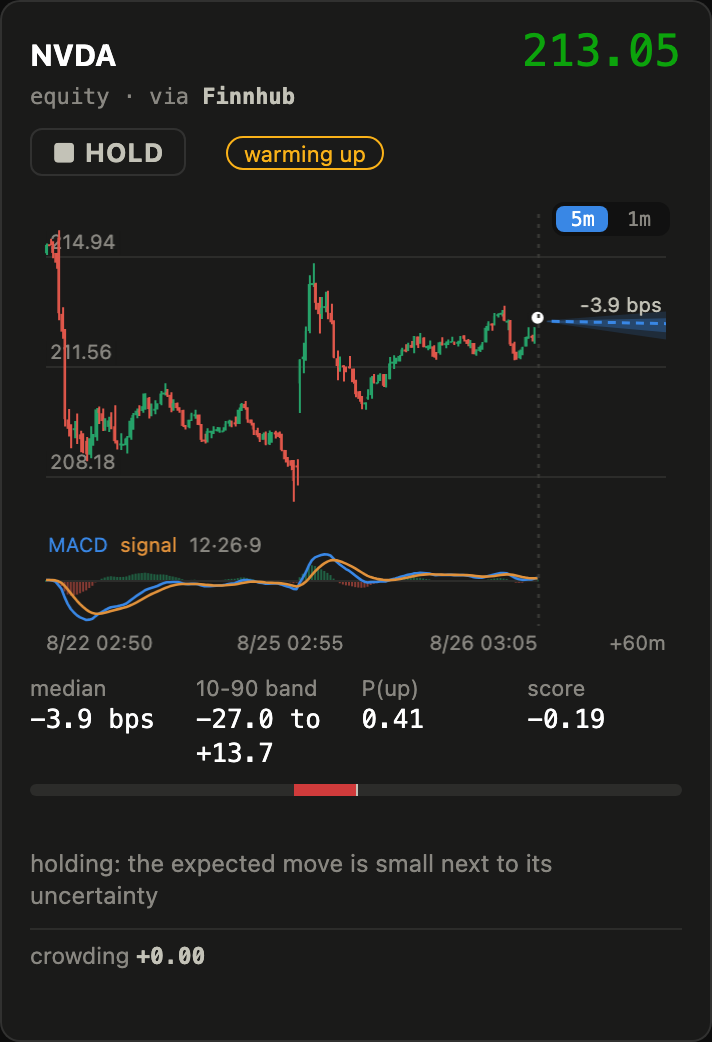
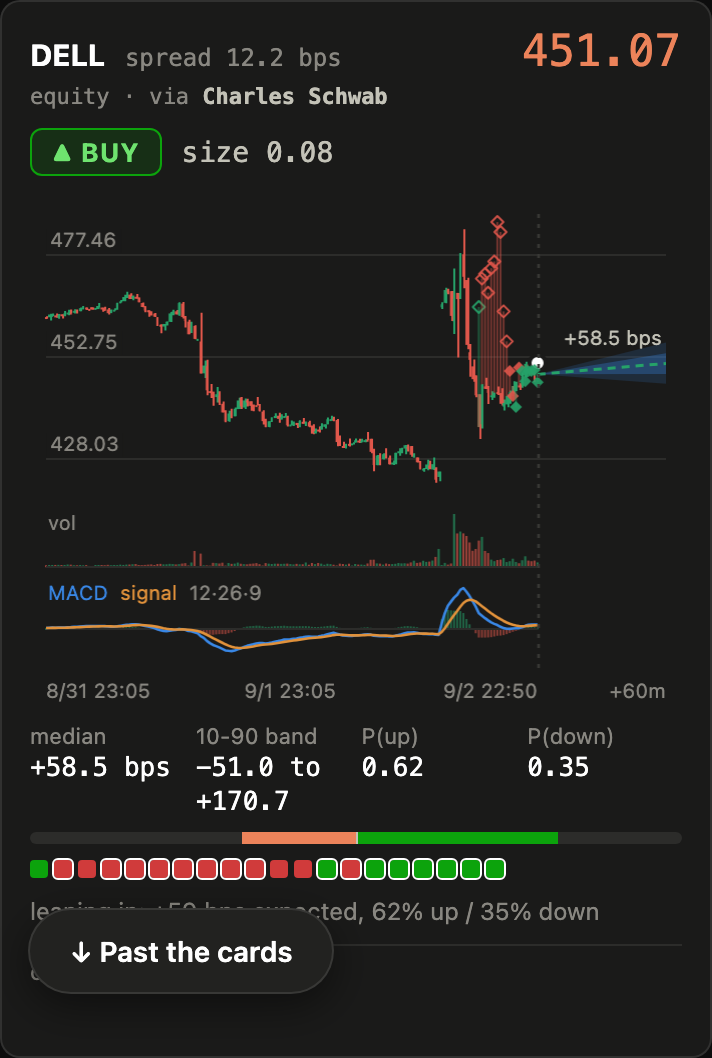
0.4.1: fresh site screenshots, detail view figure, copyright
Recaptured the dashboard, card and console shots from the current build,
added a figure for the symbol detail view, and a copyright line in the
site and dashboard footers.

diff --git a/web/app.js b/web/app.js
@@ -595,6 +595,18 @@ function linkTicker(text) {
   if (!sym) return esc(text);
   return `<span class="tk" data-sym="${esc(sym)}">${esc(m[1])}</span>${esc(text.slice(m[1].length))}`;
 }
+// compact trade label: "Buy", "Sell", "Put 315 9/26", "Close put 315 9/26", "Straddle 315 9/26"
+const MONTHS = { Jan: 1, Feb: 2, Mar: 3, Apr: 4, May: 5, Jun: 6, Jul: 7, Aug: 8, Sep: 9, Oct: 10, Nov: 11, Dec: 12 };
+function tradeLabel(t) {
+  const side = t.side || "";
+  const m = /^([PS])(\d+(?:\.\d+)?)\s+([A-Za-z]{3})(\d{1,2})$/.exec(t.note || "");
+  const contract = m ? `${Number(m[2])} ${MONTHS[m[3]] || m[3]}/${Number(m[4])}` : (t.note || "");
+  if (side === "buy put") return `Put ${contract}`.trim();
+  if (side === "sell put") return `Close put ${contract}`.trim();
+  if (side === "buy straddle") return `Straddle ${contract}`.trim();
+  if (side === "sell straddle") return `Close straddle ${contract}`.trim();
+  return (side.charAt(0).toUpperCase() + side.slice(1) + (t.note ? " " + t.note : "")).trim();
+}
 function renderLog() {
   $("#log").innerHTML = state.log.slice().reverse().map(l =>
     `<li class="${esc(l.kind)}"><span class="t">${fmtTime(l.t)}</span><span>${linkTicker(l.text)}</span></li>`).join("")
@@ -1415,6 +1427,8 @@ function renderPortfolio() {
   ) : "";
 }
 
+let paperTradesAll = false;
+document.addEventListener("DOMContentLoaded", () => { const b = $("#p-tr-more"); if (b) b.onclick = () => { paperTradesAll = !paperTradesAll; renderPaper(); }; });
 function renderPaper() {
   const p = state.paper; if (!p || !$("#paper")) return;
   paintPaperEquity();
@@ -1423,25 +1437,35 @@ function renderPaper() {
     ["realized", fmtUSD(p.realized)], ["unrealized", fmtUSD(p.unrealized)], ["fees", fmtUSD(p.fees)], ["option fees", fmtUSD(p.option_fees || 0)], ["spread paid", fmtUSD(p.spread_cost || 0)], ["trades", p.n_trades],
     ["Sharpe", (p.sharpe || 0).toFixed(2)], ["max drawdown", (p.max_drawdown || 0).toFixed(1) + "%"],
   ].map(([k, v]) => `<div class="pstat"><label>${esc(k)}</label><b>${esc(String(v))}</b></div>`).join("");
-  const pos = p.positions || [];
+  const all = p.positions || [];
+  const pos = all.filter(x => x.kind !== "put" && x.kind !== "straddle"), opts = all.filter(x => x.kind === "put" || x.kind === "straddle");
+  const pnlCell = x => `<span class="${x.upnl >= 0 ? "up" : "down"}">${x.upnl >= 0 ? "+" : ""}${fmtUSD(x.upnl)}</span>`;
   $("#p-pos-meta").textContent = pos.length ? `${pos.length} open` : "";
   $("#p-positions").innerHTML = pos.length
     ? `<div class="prow phead"><span>sym</span><span>side</span><span>weight</span><span>value</span><span>unreal</span></div>` +
       pos.map(x => `<div class="prow"><span class="psym tk" data-sym="${esc(x.sym)}">${esc(base(x.sym))}</span>` +
+        `<span class="${x.shares >= 0 ? "up" : "down"}">${x.shares >= 0 ? "long" : "short"}</span>` +
+        `<span>${(x.weight * 100).toFixed(1)}%</span><span>${fmtUSD(x.value)}</span>${pnlCell(x)}</div>`).join("")
+    : `<div class="why">no stock held — all cash${state.metrics && !state.metrics.trusted ? " (model still warming up)" : ""}</div>`;
+  const exp = e => { const m = /^([A-Za-z]{3})(\d{1,2})$/.exec(e || ""); return m ? `${MONTHS[m[1]] || m[1]}/${Number(m[2])}` : (e || ""); };
+  $("#p-opt-meta").textContent = opts.length ? `${opts.length} open, loss capped at premium` : "";
+  $("#p-options").innerHTML = opts.length
+    ? `<div class="prow popt phead"><span>sym</span><span>contract</span><span>weight</span><span>value</span><span>unreal</span></div>` +
+      opts.map(x => `<div class="prow popt"><span class="psym tk" data-sym="${esc(x.sym)}">${esc(base(x.sym))}</span>` +
         (x.kind === "put"
-          ? `<span class="down" title="bearish via long put — loss capped at the premium">put ${x.strike}${x.expiry ? " " + esc(x.expiry) : ""}</span>`
-          : x.kind === "straddle"
-          ? `<span title="big move expected, direction unclear — long put + call, loss capped at the premium">straddle ${x.strike}${x.expiry ? " " + esc(x.expiry) : ""}</span>`
-          : `<span class="${x.shares >= 0 ? "up" : "down"}">${x.shares >= 0 ? "long" : "short"}</span>`) +
-        `<span>${(x.weight * 100).toFixed(1)}%</span><span>${fmtUSD(x.value)}</span>` +
-        `<span class="${x.upnl >= 0 ? "up" : "down"}">${x.upnl >= 0 ? "+" : ""}${fmtUSD(x.upnl)}</span></div>`).join("")
-    : `<div class="why">no open positions — all cash${state.metrics && !state.metrics.trusted ? " (model still warming up)" : ""}</div>`;
+          ? `<span class="down" title="bearish via long put — loss capped at the premium">Put ${x.strike} ${exp(x.expiry)}</span>`
+          : `<span title="big move expected, direction unclear — long put + call, loss capped at the premium">Straddle ${x.strike} ${exp(x.expiry)}</span>`) +
+        `<span>${(x.weight * 100).toFixed(1)}%</span><span>${fmtUSD(x.value)}</span>${pnlCell(x)}</div>`).join("")
+    : `<div class="why">no options open</div>`;
   const tr = p.trades || [];
+  const N = 10, showAll = paperTradesAll;
   $("#p-tr-meta").textContent = p.n_trades ? `${p.n_trades} total` : "";
+  const more = $("#p-tr-more"); if (more) { more.hidden = tr.length <= N; more.textContent = showAll ? "Show fewer" : `Show all ${tr.length}`; }
   $("#p-trades").innerHTML = tr.length
-    ? tr.slice(0, 40).map(t => `<div class="prow"><span>${fmtTime(t.t)}</span>` +
-        `<span class="${(t.side || "").startsWith("buy") ? "up" : "down"}">${esc(t.side)}${t.note ? " " + esc(t.note) : ""}</span>` +
-        `<span class="psym tk" data-sym="${esc(t.sym)}">${esc(base(t.sym))}</span><span>${t.shares}</span><span>@ ${fmtPrice(t.price)}</span></div>`).join("")
+    ? `<div class="prow ptr phead"><span>time</span><span>action</span><span>sym</span><span>qty</span><span>price</span><span>notional</span></div>` +
+      tr.slice(0, showAll ? tr.length : N).map(t => `<div class="prow ptr"><span>${fmtTime(t.t)}</span>` +
+        `<span class="${(t.side || "").startsWith("buy") ? "up" : "down"}">${esc(tradeLabel(t))}</span>` +
+        `<span class="psym tk" data-sym="${esc(t.sym)}">${esc(base(t.sym))}</span><span>${t.shares}</span><span>${fmtPrice(t.price)}</span><span>${t.notional != null ? fmtUSD(t.notional) : ""}</span></div>`).join("")
     : `<div class="why">no trades yet${state.metrics && !state.metrics.trusted ? " — the model is still warming up" : ""}</div>`;
   drawEquityCurve(p);
 }

diff --git a/web/index.html b/web/index.html
@@ -168,14 +168,15 @@
   </div>
 </div>
 <main id="paper" class="view">
-  <div class="paper-head">
-    <div class="peq"><span class="peq-label">paper equity</span><span class="peq-val" id="p-equity">$100,000</span><span class="peq-ret" id="p-return">+0.00%</span></div>
-    <div class="pstats" id="p-stats"></div>
+  <div class="row pcards">
+    <section class="panel"><div class="peq"><span class="peq-label">paper equity</span><span class="peq-val" id="p-equity">$100,000</span><span class="peq-ret" id="p-return">+0.00%</span></div></section>
+    <section class="panel"><h3>Book</h3><div class="pstats" id="p-stats"></div></section>
   </div>
-  <div class="block"><h3>Equity curve <small>$100k book, compounding</small></h3><canvas id="p-curve" class="pcurve"></canvas></div>
-  <div class="row">
-    <div class="block"><h3>Positions <small id="p-pos-meta"></small></h3><div class="ptable" id="p-positions"></div></div>
-    <div class="block"><h3>Recent trades <small id="p-tr-meta"></small></h3><div class="ptable" id="p-trades"></div></div>
+  <section class="panel"><h3>Equity curve <small>$100k book, compounding</small></h3><canvas id="p-curve" class="pcurve"></canvas></section>
+  <section class="panel"><h3>Recent trades <small id="p-tr-meta"></small><button class="mini" id="p-tr-more" hidden>Show all</button></h3><div class="ptable" id="p-trades"></div></section>
+  <div class="row pcards">
+    <section class="panel"><h3>Holdings <small id="p-pos-meta"></small></h3><div class="ptable" id="p-positions"></div></section>
+    <section class="panel"><h3>Options <small id="p-opt-meta"></small></h3><div class="ptable" id="p-options"></div></section>
   </div>
   <div class="why">Simulated. The model runs a $100k long/short book, rebalancing to its own suggestions with no leverage and a small cost per trade. It compounds continuously and persists across restarts. These are not real orders.</div>
 </main>
@@ -220,6 +221,6 @@
 </div>
 
 <script src="/static/app.js"></script>
-<footer class="foot">Flint · uptime <b id="uptime">0s</b></footer>
+<footer class="foot">Flint · uptime <b id="uptime">0s</b> · © 2026 <a href="https://thingg.co" target="_blank" rel="noopener">thingg.co</a></footer>
 </body>
 </html>

diff --git a/docs/index.html b/docs/index.html
@@ -90,7 +90,9 @@
   .step p{font-size:14.5px;margin:0}
 
   /* showcase */
-  .showcase{display:grid;grid-template-columns:1fr 1fr;gap:16px;margin-top:40px}
+  .showcase{display:grid;grid-template-columns:repeat(3,1fr);gap:16px;margin-top:40px}
+  @media(max-width:1000px){.showcase{grid-template-columns:1fr 1fr}}
+  footer .copy{margin-left:auto;color:var(--muted,#898781)}
   @media(max-width:760px){.showcase{grid-template-columns:1fr}}
   .showcase figure{margin:0;background:var(--surface);border:1px solid var(--border);border-radius:12px;overflow:hidden}
   .showcase img{display:block;width:100%;height:auto}
@@ -176,6 +178,7 @@
     </div>
     <div class="showcase">
       <figure><img src="img/card.png" alt="A single stock card with candlesticks, MACD, forecast fan and a plain-English rationale"><figcaption>Each card shows the forecast, the band, and why the call is a buy, sell or hold.</figcaption></figure>
+      <figure><img src="img/detail.png" alt="The symbol detail view: a large chart, the calibrated forecast, track record, signals, fundamentals, news and positions for one stock"><figcaption>Click any ticker for everything Flint knows about it, with a URL you can share.</figcaption></figure>
       <figure><img src="img/console.png" alt="The Console tab: a terminal-style stream of everything the model is doing"><figcaption>The Console tab tails every channel the model runs through, live.</figcaption></figure>
     </div>
   </div>
@@ -216,6 +219,7 @@ llama-server -m model.gguf --port 8080   <span class="c"># or llama.cpp, with FL
     <span class="brand"><span class="fire">🔥</span> Flint</span>
     <span>a self-hosted market model</span>
     <a href="https://github.com/thingg-co/flint">github.com/thingg-co/flint ↗</a>
+    <span class="copy">© 2026 <a href="https://thingg.co">thingg.co</a> · PolyForm Noncommercial</span>
   </div>
 </footer>
 </body>

diff --git a/web/style.css b/web/style.css
@@ -668,6 +668,7 @@ ul.headlines li.new a { color: #fff; } ul.headlines li:not(.new) a { color: var(
 /* page footer: the one counter nobody needs in the header */
 .foot { text-align: center; color: var(--muted); font-size: 11.5px; padding: 18px 12px 96px; }   /* bottom padding clears the floating buttons */
 .foot b { font-family: var(--mono); font-weight: 500; color: var(--ink-2); }
+.foot a { color: var(--muted); text-decoration: none; } .foot a:hover { color: var(--ink); }
 
 /* the radar table is wider than a phone; scroll it inside the panel instead of the page */
 .radar-table { overflow-x: auto; max-width: 100%; -webkit-overflow-scrolling: touch; }
@@ -689,3 +690,13 @@ ul.headlines li.new a { color: #fff; } ul.headlines li:not(.new) a { color: var(
 .wtile[data-sym]:hover { border-color: var(--blue); }
 .tk { cursor: pointer; }
 .tk:hover { color: var(--blue); text-decoration: underline dotted; }
+/* paper tab: holdings and options side by side, trades full width below */
+.prow.ptr { grid-template-columns: 90px 1.6fr 1fr 1fr 1.2fr 1.2fr; }   /* full width: time, action, sym, qty, price, notional */
+.prow.popt { grid-template-columns: 1fr 1.6fr .8fr 1fr 1fr; }
+h3 .mini { float: right; padding: 2px 10px; font-size: 11px; margin-top: -2px; }
+@media (max-width: 700px) { .prow.ptr { grid-template-columns: 62px 1.3fr 1fr .7fr 1fr; font-size: 12px; } }
+/* paper tab as cards: two on top, the curve, trades, then holdings and options */
+#paper .row.pcards { grid-template-columns: repeat(auto-fit, minmax(min(320px, 100%), 1fr)); }
+#paper .row.pcards .panel { margin-bottom: 0; }
+#paper .panel .peq { padding: 4px 2px; }
+#paper .pstats { padding-top: 2px; gap: 16px 22px; }
